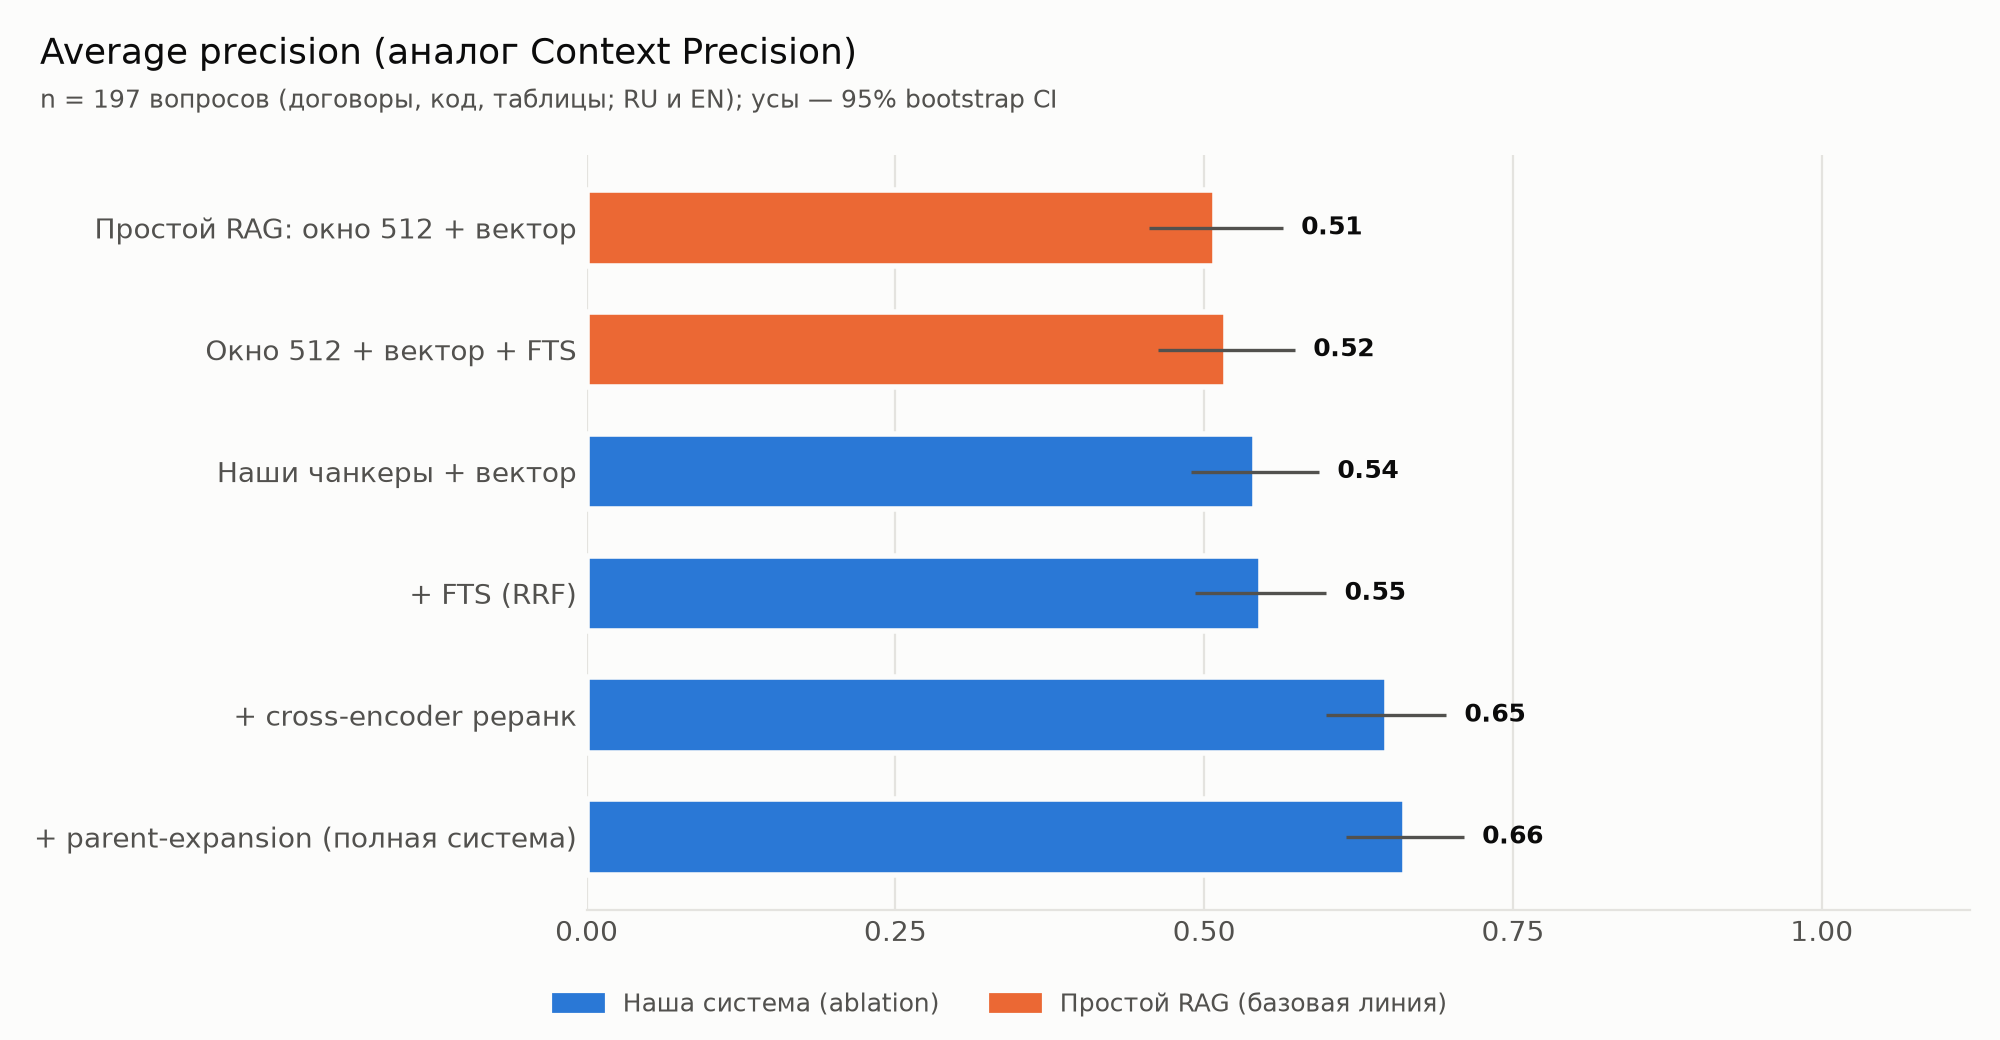
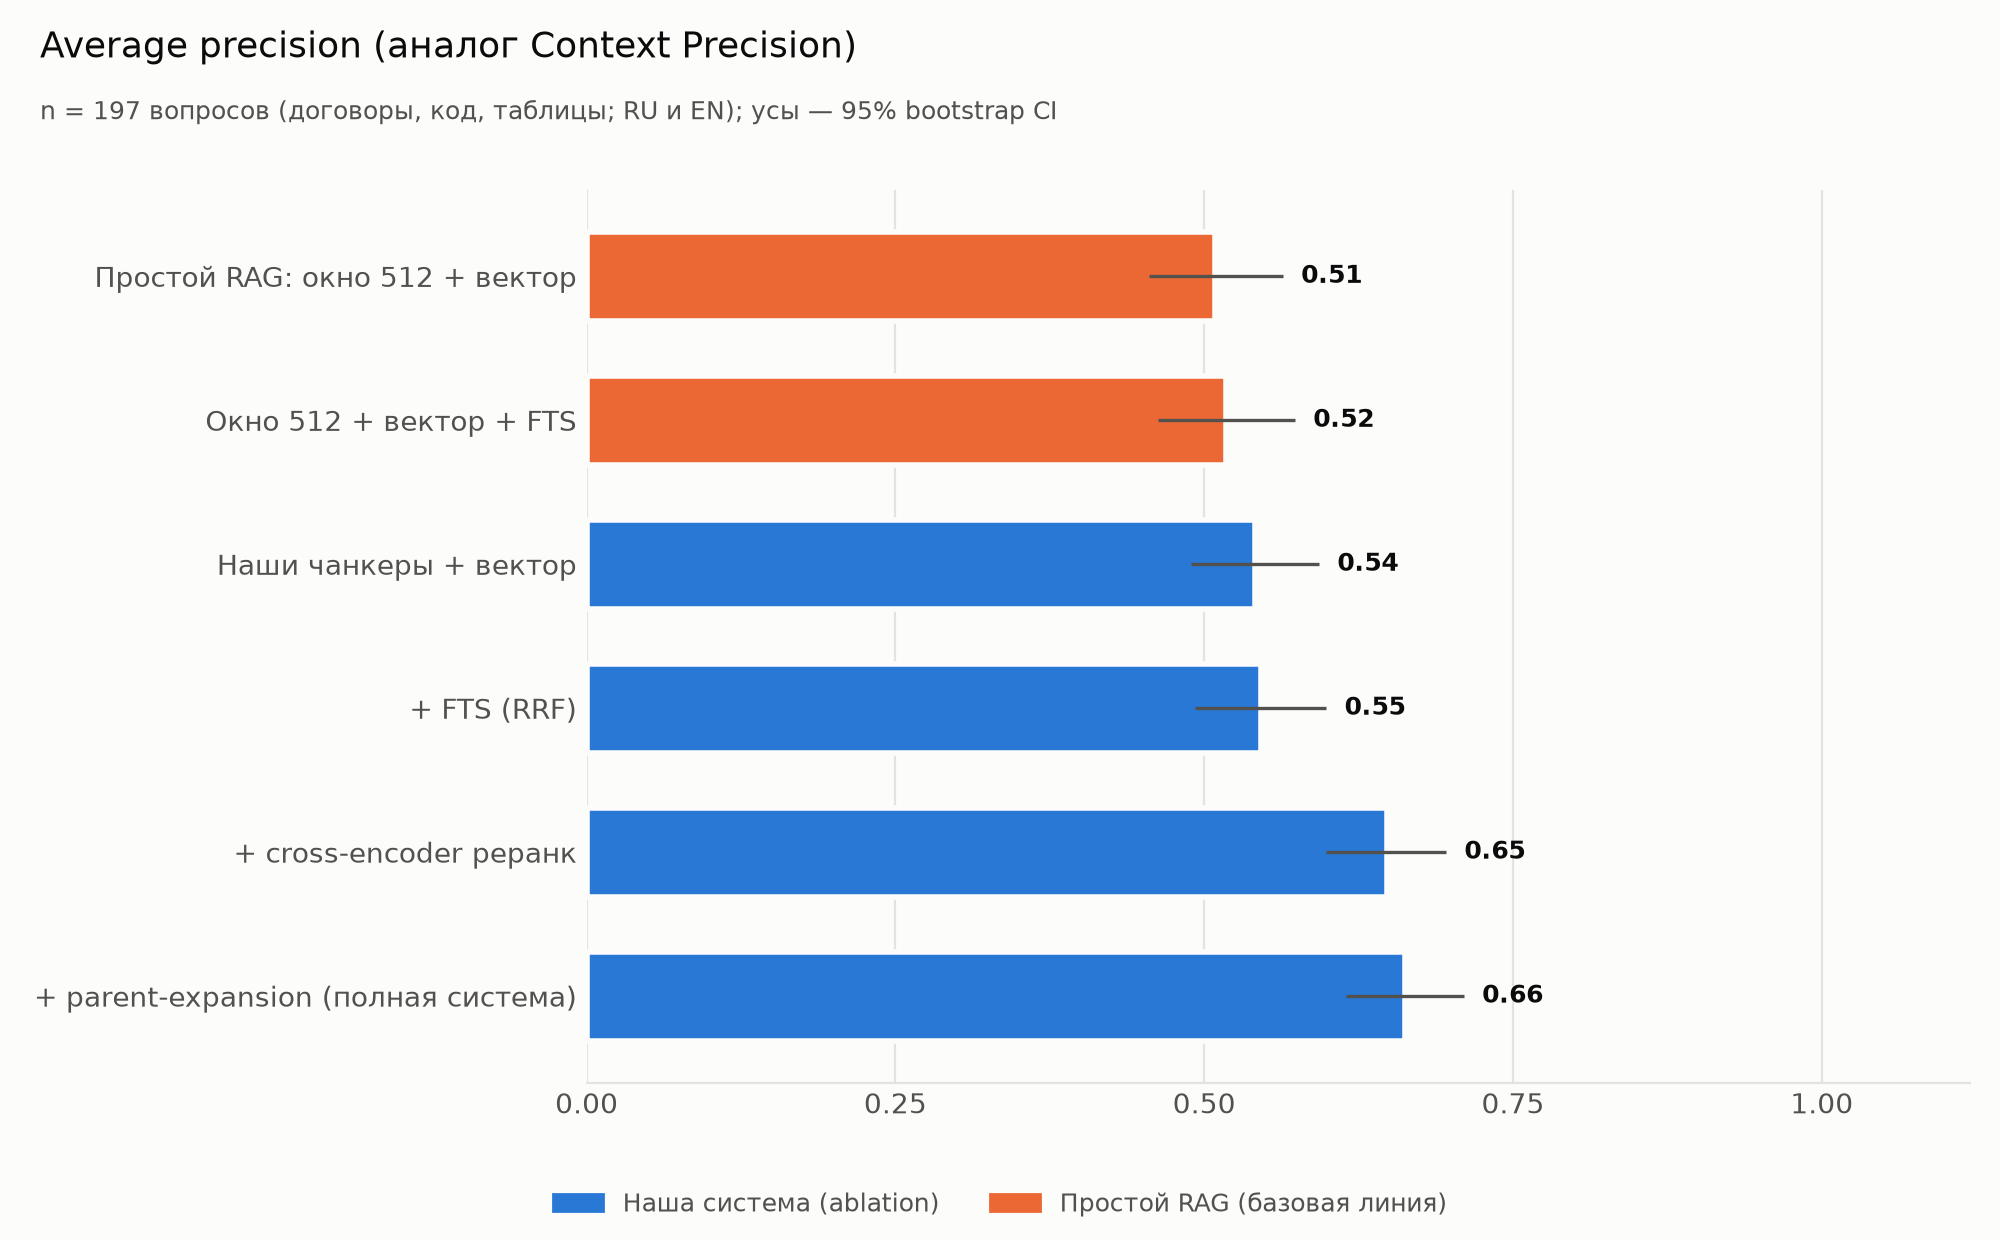
LLM judge for answers (faithfulness, correctness), Dify path mapping fix, plots

diff --git a/benchmarks/judge_answers.py b/benchmarks/judge_answers.py
@@ -1,0 +1,245 @@
+"""Оценка ответов LLM-судьёй: `python -m benchmarks.judge_answers domain:full naive:vector ...`.
+
+Аргумент — `<прогон>:<конфигурация>`: контексты из `results/raw/<прогон>.jsonl`, ответы из
+`results/raw/<прогон>-answers-<конфигурация>.jsonl`. Судья — алиас `judge` (общий для всех
+систем) с отключённым reasoning. За один вызов он:
+- выделяет утверждения ответа и считает, сколько из них подтверждено контекстами
+  (Faithfulness по методике RAGAS: доля подтверждённых утверждений);
+- сравнивает ответ с эталоном: верно / частично / неверно (Answer correctness: 1 / 0.5 / 0).
+
+Отказ («нет данных») не входит в Faithfulness (утверждений нет), а в правильности считается 0.
+Вердикты кешируются в `results/raw/judge-<прогон>-<конфигурация>.jsonl`; сводка с 95% CI —
+`results/judge-summary.csv` и `results/judge.md`.
+"""
+
+import argparse
+import asyncio
+import csv
+import json
+import logging
+import re
+import sys
+from collections import defaultdict
+from pathlib import Path
+from typing import Any
+
+from openai import AsyncOpenAI, RateLimitError
+
+from app.config import get_settings
+from app.generation import format_contexts
+from app.retrieval.hybrid import RetrievedChunk
+from benchmarks.dataset import DOMAINS
+from benchmarks.metrics import bootstrap_ci
+from benchmarks.run_eval import RAW_DIR, RESULTS_DIR, _read_jsonl, load_samples
+
+logger = logging.getLogger('benchmarks.judge')
+
+REQUESTS_PER_MINUTE = 18
+CONCURRENCY = 4
+RETRIES = 6
+BACKOFF_S = 30.0
+# Ограничение длины контекстов в промпте судьи (символов), чтобы parent-таблицы не раздували цену.
+MAX_CONTEXT_CHARS = 60_000
+
+PROMPT = """You evaluate an answer produced by a retrieval-augmented assistant.
+Inputs: QUESTION, numbered CONTEXTS retrieved by the system, the ANSWER, and a REFERENCE answer.
+
+1. Split the ANSWER into atomic factual claims (ignore citation markers like [1] and phrases
+   such as "according to the documents"). If the answer only says that the information is
+   not available, it has 0 claims and refusal = true.
+2. For each claim decide whether it is directly supported by the CONTEXTS (not by your own
+   knowledge). Count supported claims.
+3. Compare the ANSWER with the REFERENCE: "correct" if it contains the key facts of the
+   reference (rounding and wording may differ), "partial" if some key facts are missing or
+   wrong, "incorrect" otherwise (including refusals).
+
+Reply with JSON only:
+{"claims": <int>, "supported": <int>, "refusal": true|false,
+ "correctness": "correct"|"partial"|"incorrect", "note": "<short reason>"}"""
+
+CORRECTNESS = {'correct': 1.0, 'partial': 0.5, 'incorrect': 0.0}
+
+
+class Pacer:
+    """Не больше `REQUESTS_PER_MINUTE` стартов запросов в минуту."""
+
+    def __init__(self) -> None:
+        self._lock = asyncio.Lock()
+        self._next = 0.0
+
+    async def wait(self) -> None:
+        """Ждёт своей очереди."""
+        loop = asyncio.get_running_loop()
+        async with self._lock:
+            delay = self._next - loop.time()
+            if delay > 0:
+                await asyncio.sleep(delay)
+            self._next = max(loop.time(), self._next) + 60 / REQUESTS_PER_MINUTE
+
+
+def _parse(content: str) -> dict[str, Any] | None:
+    match = re.search(r'\{.*\}', content, re.S)
+    try:
+        parsed = json.loads(match.group()) if match else None
+    except json.JSONDecodeError:
+        return None
+    return parsed if isinstance(parsed, dict) else None
+
+
+async def judge_one(
+    llm: AsyncOpenAI,
+    model: str,
+    pacer: Pacer,
+    semaphore: asyncio.Semaphore,
+    question: str,
+    reference: str,
+    contexts: list[dict[str, Any]],
+    answer: str,
+) -> dict[str, Any]:
+    """Один вызов судьи; возвращает разобранный вердикт и сырой ответ."""
+    chunks = [RetrievedChunk(metadata={}, **c) for c in contexts]
+    block = format_contexts(chunks)[:MAX_CONTEXT_CHARS]
+    user = (
+        f'QUESTION: {question}\n\nCONTEXTS:\n{block}\n\nANSWER: {answer}\n\nREFERENCE: {reference}'
+    )
+    async with semaphore:
+        for attempt in range(1, RETRIES + 1):
+            await pacer.wait()
+            try:
+                response = await llm.chat.completions.create(
+                    model=model,
+                    messages=[
+                        {'role': 'system', 'content': PROMPT},
+                        {'role': 'user', 'content': user},
+                    ],
+                    temperature=0,
+                    max_tokens=400,
+                    extra_body={'reasoning': {'enabled': False}},
+                )
+                break
+            except RateLimitError:
+                if attempt == RETRIES:
+                    raise
+                await asyncio.sleep(BACKOFF_S)
+    content = response.choices[0].message.content or ''
+    usage = response.usage
+    return {
+        'verdict': _parse(content),
+        'raw': content,
+        'prompt_tokens': usage.prompt_tokens if usage else 0,
+        'completion_tokens': usage.completion_tokens if usage else 0,
+    }
+
+
+async def judge_run(target: str, llm: AsyncOpenAI, model: str, pacer: Pacer) -> Path:
+    """Оценивает ответы одной конфигурации (с продолжением по кешу)."""
+    run, config = target.split(':')
+    samples = {s.id: s for s in load_samples()}
+    contexts = {r['id']: r['contexts'][config] for r in _read_jsonl(RAW_DIR / f'{run}.jsonl')}
+    answers = {r['id']: r['answer'] for r in _read_jsonl(RAW_DIR / f'{run}-answers-{config}.jsonl')}
+    out = RAW_DIR / f'judge-{run}-{config}.jsonl'
+    done = {r['id'] for r in _read_jsonl(out)}
+    todo = [i for i in answers if i in samples and i in contexts and i not in done]
+    logger.info('%s: %s ответов к оценке (%s уже есть)', target, len(todo), len(done))
+    semaphore = asyncio.Semaphore(CONCURRENCY)
+
+    async def one(sample_id: str) -> None:
+        sample = samples[sample_id]
+        result = await judge_one(
+            llm,
+            model,
+            pacer,
+            semaphore,
+            sample.question,
+            sample.ground_truth,
+            contexts[sample_id],
+            answers[sample_id],
+        )
+        record = {'id': sample_id, 'domain': sample.domain, **result}
+        with out.open('a', encoding='utf-8') as f:
+            f.write(json.dumps(record, ensure_ascii=False) + '\n')
+
+    await asyncio.gather(*(one(i) for i in todo))
+    return out
+
+
+def summarize(targets: list[str]) -> str:
+    """Сводка по кешам вердиктов: CSV и markdown."""
+    rows = []
+    lines = [
+        '# Оценка ответов LLM-судьёй',
+        '',
+        'Faithfulness — доля утверждений ответа, подтверждённых контекстами (без отказов); '
+        'correctness — совпадение с эталоном (1 / 0.5 / 0, отказ = 0); refusal — доля отказов. '
+        'Среднее [95% bootstrap CI].',
+        '',
+        '| Прогон:конфигурация | Домен | n | faithfulness | correctness | refusal |',
+        '|---|---|---|---|---|---|',
+    ]
+    for target in targets:
+        run, config = target.split(':')
+        records = _read_jsonl(RAW_DIR / f'judge-{run}-{config}.jsonl')
+        values: dict[tuple[str, str], list[float]] = defaultdict(list)
+        for r in records:
+            v = r['verdict'] or {}
+            claims = int(v.get('claims') or 0)
+            refusal = bool(v.get('refusal')) or claims == 0
+            for domain in (r['domain'], 'all'):
+                if not refusal:
+                    values[(domain, 'faithfulness')].append(
+                        min(1.0, int(v.get('supported') or 0) / claims)
+                    )
+                values[(domain, 'correctness')].append(
+                    CORRECTNESS.get(str(v.get('correctness')), 0.0)
+                )
+                values[(domain, 'refusal')].append(float(refusal))
+        for domain in (*DOMAINS, 'all'):
+            cells = []
+            for metric in ('faithfulness', 'correctness', 'refusal'):
+                mean, low, high = bootstrap_ci(values[(domain, metric)])
+                rows.append(
+                    [run, config, domain, metric, len(values[(domain, metric)]), mean, low, high]
+                )
+                cells.append(f'{mean:.3f} [{low:.2f}–{high:.2f}]')
+            n = len(values[(domain, 'correctness')])
+            lines.append(f'| {target} | {domain} | {n} | ' + ' | '.join(cells) + ' |')
+    with (RESULTS_DIR / 'judge-summary.csv').open('w', encoding='utf-8', newline='') as f:
+        writer = csv.writer(f)
+        writer.writerow(['run', 'config', 'domain', 'metric', 'n', 'mean', 'ci_low', 'ci_high'])
+        writer.writerows(rows)
+    report = '\n'.join(lines) + '\n'
+    (RESULTS_DIR / 'judge.md').write_text(report, encoding='utf-8')
+    return report
+
+
+async def run(targets: list[str], summary_only: bool) -> int:
+    """Оценивает конфигурации и пишет сводку."""
+    if not summary_only:
+        settings = get_settings()
+        llm = AsyncOpenAI(base_url=f'{settings.litellm_url}/v1', api_key=settings.litellm_api_key)
+        pacer = Pacer()
+        try:
+            for target in targets:
+                await judge_run(target, llm, settings.judge_model, pacer)
+        finally:
+            await llm.close()
+    print(summarize(targets))
+    return 0
+
+
+def main() -> None:
+    """Точка входа CLI."""
+    parser = argparse.ArgumentParser(prog='python -m benchmarks.judge_answers')
+    parser.add_argument('targets', nargs='+', help='<прогон>:<конфигурация>, напр. domain:full')
+    parser.add_argument('--summary-only', action='store_true')
+    args = parser.parse_args()
+    logging.basicConfig(
+        level=logging.INFO, format='%(asctime)s %(levelname)s %(name)s: %(message)s'
+    )
+    for noisy in ('httpx', 'httpx2', 'openai'):
+        logging.getLogger(noisy).setLevel(logging.WARNING)
+    sys.exit(asyncio.run(run(args.targets, args.summary_only)))
+
+
+if __name__ == '__main__':
+    main()

diff --git a/benchmarks/plots.py b/benchmarks/plots.py
@@ -49,6 +49,16 @@ METRIC_TITLES = {
     'evidence_recall': 'Доля найденных эталонных фрагментов в top-8 (evidence recall)',
     'mrr': 'MRR: 1 / ранг первого релевантного контекста',
     'ap': 'Average precision (аналог Context Precision)',
+    'faithfulness': 'Faithfulness: доля утверждений ответа, подтверждённых контекстами',
+    'correctness': 'Правильность ответа относительно эталона (LLM-судья)',
+}
+# Метрики ответов есть только у конфигураций, для которых генерировались ответы.
+ANSWER_METRICS = ('faithfulness', 'correctness')
+KEY_CONFIGS = {
+    ('naive', 'vector'),
+    ('dify', 'dify_vector'),
+    ('dify', 'dify_hybrid_rerank'),
+    ('domain', 'full'),
 }
 LEGEND = {
     'ours': 'Наша система (ablation)',
@@ -134,24 +144,36 @@ def _systems(data: dict[tuple[str, str, str, str], Row]) -> list[str]:
     ]
 
 
-def figure_ablation(data: dict[tuple[str, str, str, str], Row], metric: str, path: Path) -> None:
-    """Один график: все конфигурации на всех доменах."""
-    fig, ax = plt.subplots(figsize=(10, 5.2), facecolor=SURFACE)
-    bars(ax, data, 'all', metric, CONFIGS)
+def figure_ablation(
+    data: dict[tuple[str, str, str, str], Row],
+    metric: str,
+    path: Path,
+    configs: Sequence[tuple[str, str, str, str]] = CONFIGS,
+) -> None:
+    """Один график: конфигурации на всех доменах."""
+    height = 1.8 + 0.55 * len(configs)
+    fig, ax = plt.subplots(figsize=(10, height), facecolor=SURFACE)
+    bars(ax, data, 'all', metric, configs)
     counts = sorted({v[3] for k, v in data.items() if k[2] == 'all' and k[3] == metric})
     n = '/'.join(map(str, counts))
-    fig.text(0.02, 0.965, METRIC_TITLES[metric], ha='left', va='top', fontsize=13, color=TEXT)
+    fig.text(
+        0.02, 1 - 0.15 / height, METRIC_TITLES[metric], ha='left', va='top', fontsize=13, color=TEXT
+    )
     fig.text(
         0.02,
-        0.915,
-        f'n = {n} вопросов (договоры, код, таблицы; RU и EN); усы — 95% bootstrap CI',
+        1 - 0.5 / height,
+        (
+            f'n = {n} ответов без отказа «нет данных»; усы — 95% bootstrap CI'
+            if metric == 'faithfulness'
+            else f'n = {n} вопросов (договоры, код, таблицы; RU и EN); усы — 95% bootstrap CI'
+        ),
         ha='left',
         va='top',
         fontsize=9,
         color=TEXT_SECONDARY,
     )
     _legend(fig, _systems(data))
-    fig.tight_layout(rect=(0, 0.06, 1, 0.88))
+    fig.tight_layout(rect=(0, 0.45 / height, 1, 1 - 0.8 / height))
     fig.savefig(path, dpi=200, facecolor=SURFACE)
     plt.close(fig)
 
@@ -181,6 +203,10 @@ def main() -> None:
     data = load_summary()
     for metric in ('evidence_recall', 'mrr', 'ap'):
         figure_ablation(data, metric, FIGURES_DIR / f'ablation_{metric}.png')
+        figure_domains(data, metric, FIGURES_DIR / f'domains_{metric}.png')
+    key = [c for c in CONFIGS if (c[0], c[1]) in KEY_CONFIGS]
+    for metric in ANSWER_METRICS:
+        figure_ablation(data, metric, FIGURES_DIR / f'answers_{metric}.png', key)
         figure_domains(data, metric, FIGURES_DIR / f'domains_{metric}.png')
     print(f'графики → {FIGURES_DIR}')
 

diff --git a/benchmarks/run_dify.py b/benchmarks/run_dify.py
@@ -207,10 +207,19 @@ async def retry_failed(cfg: DifyConfig, client: DifyKnowledge, dataset_id: str) 
     raise RuntimeError('после повторов остались документы с ошибкой индексации')
 
 
-def _source(record: dict[str, Any]) -> str:
-    name = str(record['segment']['document']['name'])
-    name = name.removesuffix('.txt') if name.count('.') > 1 else name
+def corpus_path(name: str) -> str:
+    """Путь документа в корпусе по имени документа Dify (обратное к имени при загрузке).
+
+    При загрузке `/` заменяется на `__`, а к `.py`/`.rst` добавляется `.txt`.
+    """
+    base = name.removesuffix('.txt')
+    if name.endswith('.txt') and Path(base).suffix.lower() in {'.py', '.rst'}:
+        name = base
     return name.replace('__', '/')
+
+
+def _source(record: dict[str, Any]) -> str:
+    return corpus_path(str(record['segment']['document']['name']))
 
 
 async def retrieve(client: DifyKnowledge, dataset_id: str, raw_path: Path) -> None:

diff --git a/benchmarks/results/judge.md b/benchmarks/results/judge.md
@@ -1,0 +1,14 @@
+# Оценка ответов LLM-судьёй
+
+Faithfulness — доля утверждений ответа, подтверждённых контекстами (без отказов); correctness — совпадение с эталоном (1 / 0.5 / 0, отказ = 0); refusal — доля отказов. Среднее [95% bootstrap CI].
+
+| Прогон:конфигурация | Домен | n | faithfulness | correctness | refusal |
+|---|---|---|---|---|---|
+| domain:full | contracts | 92 | 0.978 [0.94–1.00] | 0.761 [0.67–0.84] | 0.207 [0.13–0.29] |
+| domain:full | code | 41 | 0.974 [0.94–1.00] | 0.902 [0.82–0.98] | 0.049 [0.00–0.12] |
+| domain:full | tables | 64 | 0.921 [0.83–0.99] | 0.523 [0.41–0.64] | 0.406 [0.28–0.52] |
+| domain:full | all | 197 | 0.963 [0.93–0.99] | 0.713 [0.65–0.77] | 0.239 [0.18–0.30] |
+| naive:vector | contracts | 92 | 0.982 [0.96–1.00] | 0.668 [0.58–0.76] | 0.283 [0.20–0.37] |
+| naive:vector | code | 41 | 0.931 [0.86–0.99] | 0.817 [0.70–0.91] | 0.122 [0.02–0.22] |
+| naive:vector | tables | 64 | 0.917 [0.83–0.98] | 0.523 [0.41–0.63] | 0.375 [0.27–0.50] |
+| naive:vector | all | 197 | 0.951 [0.92–0.98] | 0.652 [0.59–0.72] | 0.279 [0.21–0.34] |
